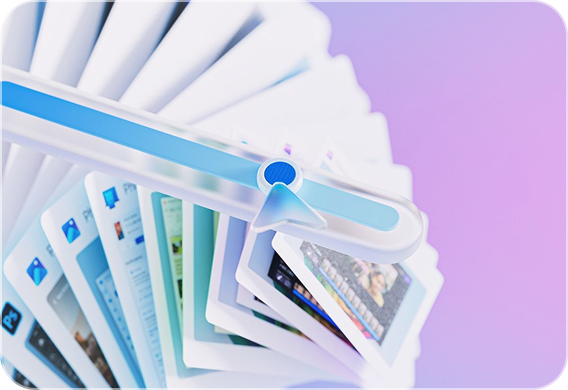
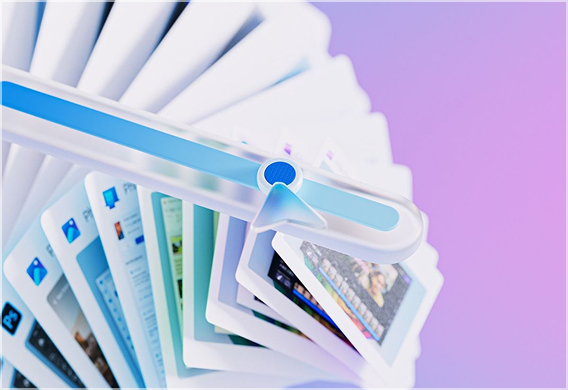
as

diff --git a/assets/css/home.css b/assets/css/home.css
@@ -106,7 +106,9 @@ p{
     position: relative;
     z-index: 2;
 }
-
+.micro-photo-mob{
+    display: none;
+}
 
 @media (max-width: 1199px){
     .microsoft-title p {
@@ -137,13 +139,28 @@ p{
     }
 }
 @media (max-width: 767px){
+    .micro-photo-mob{
+        display: block;
+    }
     .microsoft-photo{
+        padding: 12px;
+        background: linear-gradient(0deg, rgba(255, 255, 255, 0.3), rgba(255, 255, 255, 0.3)),
+        linear-gradient(86.56deg, rgba(102, 192, 255, 0.05) 0%, rgba(0, 148, 240, 0.05) 19.52%);
+        border: 1.26px solid rgba(102, 192, 255, 0.2);
+        backdrop-filter: blur(12.645739555358887px);
+        border-radius: 18px;
+        max-width: 358px;
+        width: 100%;
+        margin: 50px auto 0;
+    }
+    .micro-photo-desc{
         display: none;
     }
     .microsoft-word-min {
         padding-top: 160px;
         height: 666px;
     }
+
     h1 {
         font-size: 25px;
     }
@@ -333,7 +350,11 @@ p{
         top: 122px;
         height: 771px;
     }
-
+    .accuracy-grad{
+        background-image: url("../img/grad-fon.png");
+        background-repeat: no-repeat;
+        background-size: cover;
+    }
 }
 
 
@@ -396,10 +417,11 @@ p{
     font-weight: 350;
     font-size: 16px;
     line-height: 160%;
+    color: rgba(29, 29, 29, 0.7);
 }
 .generate-info>p b{
-    font-weight: 400;
-
+    font-weight: 500;
+    color: rgba(29, 29, 29, 1);
 }
 .generate-info .btn{
     margin: 0;

diff --git a/index.html b/index.html
@@ -56,7 +56,8 @@
         </div>
         
         <div class="microsoft-photo G-justify-center">
-            <img src="./assets/img/microsoft-word.png" alt="microsoft">
+            <img src="./assets/img/microsoft-word.png" class="micro-photo-desc" alt="microsoft">
+            <img src="./assets/img/microsoft-word-mob.png" class="micro-photo-mob" alt="microsoft">
         </div>
     </div>
 </section>
